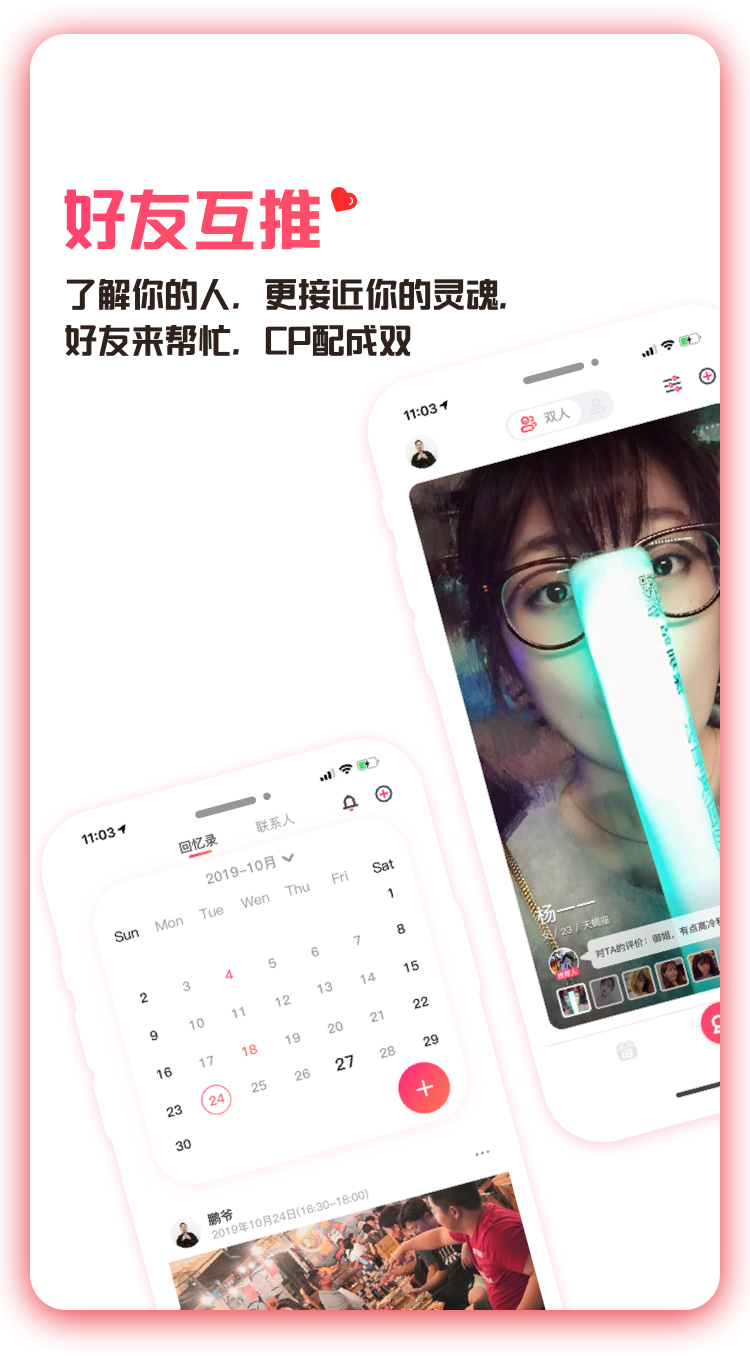
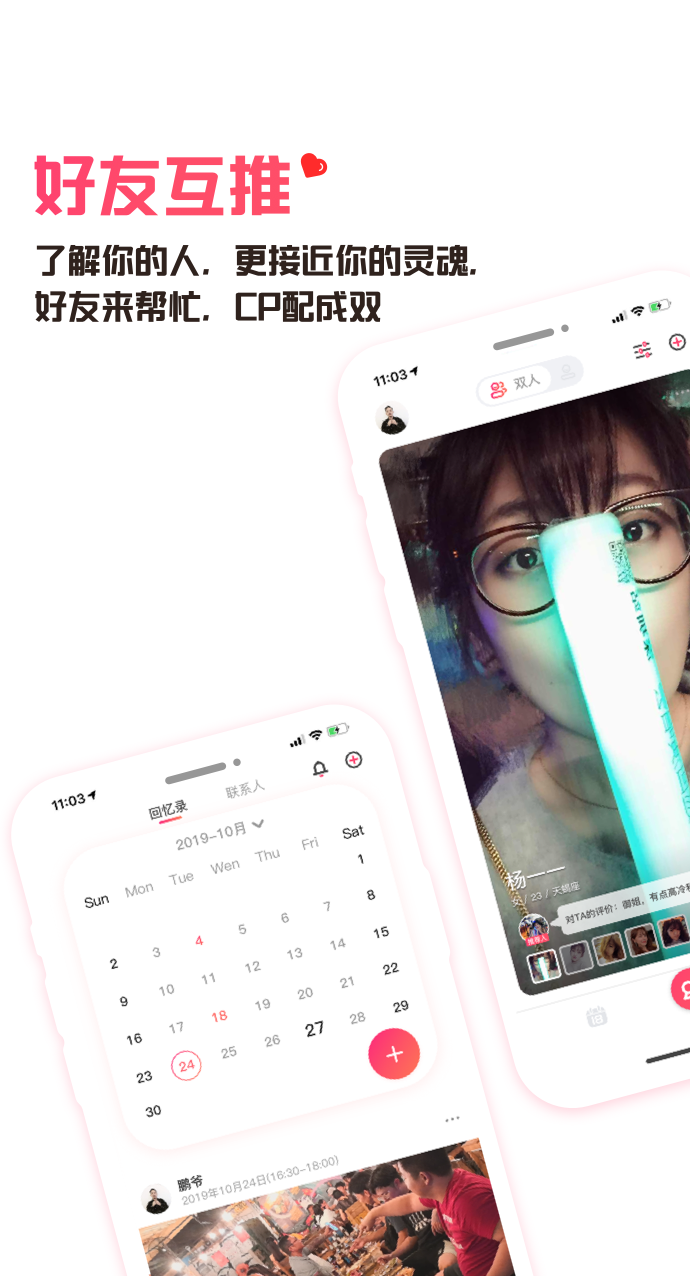
优化背景压缩问题

diff --git a/Renben_Service/src/assets/css/common.css b/Renben_Service/src/assets/css/common.css
@@ -7,26 +7,6 @@
   user-select: none;
 }
 
-img {
-  object-fit: cover;
-}
-
-#HomeContentBox_PC {
-  position: fixed;
-  left: 26%;
-  right: 26%;
-  top: 5%;
-  bottom: 5%;
-}
-
-#HomeContentBox_M{
-  position: fixed;
-  left:5%;
-  right: 5%;
-  top: 5%;
-  bottom: 2%;
-}
-
 .backBoxBG {
   position: fixed;
   top: 0;
@@ -34,8 +14,23 @@ img {
   right: 0;
   bottom: 0;
   z-index: -1;
-
   background: linear-gradient(135deg, #FC267D 0%, #FE5266 51%, #FF7854 100%);
+}
+
+#HomeContentBox_PC {
+  position: fixed;
+  left: 25%;
+  right: 25%;
+  top: 56px;
+  bottom: 50px;
+}
+
+#HomeContentBox_M {
+  position: fixed;
+  left: 15px;
+  right: 15px;
+  top: 25px;
+  bottom: 20px;
 }
 
 .LogoImgBox {
@@ -68,52 +63,56 @@ img {
 
 .contentBox_PC {
   position: absolute;
-  left: -30px;
-  right: -30px;
-  top: 40px;
-  bottom: 30px;
-  background: url(../../../static/img/bgBackImg.png) no-repeat;
-  background-size: 100% 100%;
-  -moz-background-size: 100% 100%;
+  left: 0px;
+  right: 0px;
+  top: 55px;
+  bottom: 32px;
+  background-color: #FFFFFF;
+  border-radius: 18px;
+  box-shadow: 0px 3px 20px 0px #E72229;
+  background: url(../../../static/img/bgBackImg_PC.png) no-repeat;
+  width: 100%;
+  margin: 0 auto;
+  background-size: cover;
 }
 
 .contentBox_M {
   position: absolute;
   left: 0px;
   right: 0px;
-  top: 40px;
-  bottom: 50px;
+  top: 55px;
+  bottom: 70px;
+  background-color: #FFFFFF;
+  border-radius: 18px;
+  box-shadow: 0px 3px 20px 0px #E72229;
   background: url(../../../static/img/bgBackImg_M.png) no-repeat;
-  background-size: 100% 100%;
-  -moz-background-size: 100% 100%;
+  width: 100%;
+  margin: 0 auto;
+  background-size: cover;
 }
 
 .downloadAPP_PC {
   position: relative;
-  top: 40%;
-  left: 7%;
+  top: 46%;
+  left: 40px;
   width: 125px;
-  height: 38px;
 }
 
-.downloadAPP_M{
+.downloadAPP_M {
   position: relative;
   display: block;
-  top: 30%;
-  left: 7%;
+  top: 187px;
+  left: 17px;
   width: 125px;
-  height: 38px;
 }
 
 .hintBox {
   position: absolute;
   bottom: 0px;
-  left: 0px;
-  right: 0px;
-
+  left: 5px;
+  right: 5px;
   font-size: 9px;
   font-family: PingFang-SC-Medium, PingFang-SC;
   font-weight: 500;
   color: #FFFFFF;
-  /* background-color: aqua; */
 }

diff --git a/Renben_Service/src/components/Home/HomePC.vue b/Renben_Service/src/components/Home/HomePC.vue
@@ -17,7 +17,7 @@
 
       <!-- 底部内容 -->
       <div class="hintBox">
-        <span style="text-align: left;">服务协议&emsp;&emsp;隐私政策</span>
+        <span style="text-align: left;"  @click="pushProtocol">服务协议&emsp;&emsp;隐私政策</span>
         <span style="float: right;text-align: right;">粤ICP备19038094号&emsp;深圳普绪克网络科技有限公司</span>
       </div>
 
@@ -39,6 +39,10 @@
       //下载安卓APP
       pushLoadAndroidApp() {
 
+      },
+      //跳转协议
+      pushProtocol(){
+        window.location.href = 'https://dev.psychelove.com/#/Privacy'
       }
     }
   }

diff --git a/Renben_Service/src/components/Home/HomeM.vue b/Renben_Service/src/components/Home/HomeM.vue
@@ -17,7 +17,7 @@
 
       <!-- 底部内容 -->
       <div class="hintBox">
-        <p style="text-align: left;">服务协议&emsp;&emsp;隐私政策</p>
+        <p style="text-align: left;" @click="pushProtocol">服务协议&emsp;&emsp;隐私政策</p>
         <p style="text-align: center;margin-top: 20px;">粤ICP备19038094号&emsp;深圳普绪克网络科技有限公司</p>
       </div>
 
@@ -36,6 +36,10 @@
       //下载安卓APP
       pushLoadAndroidApp() {
 
+      },
+      //跳转协议
+      pushProtocol(){
+        window.location.href = 'https://dev.psychelove.com/#/Privacy'
       }
     }
   }
